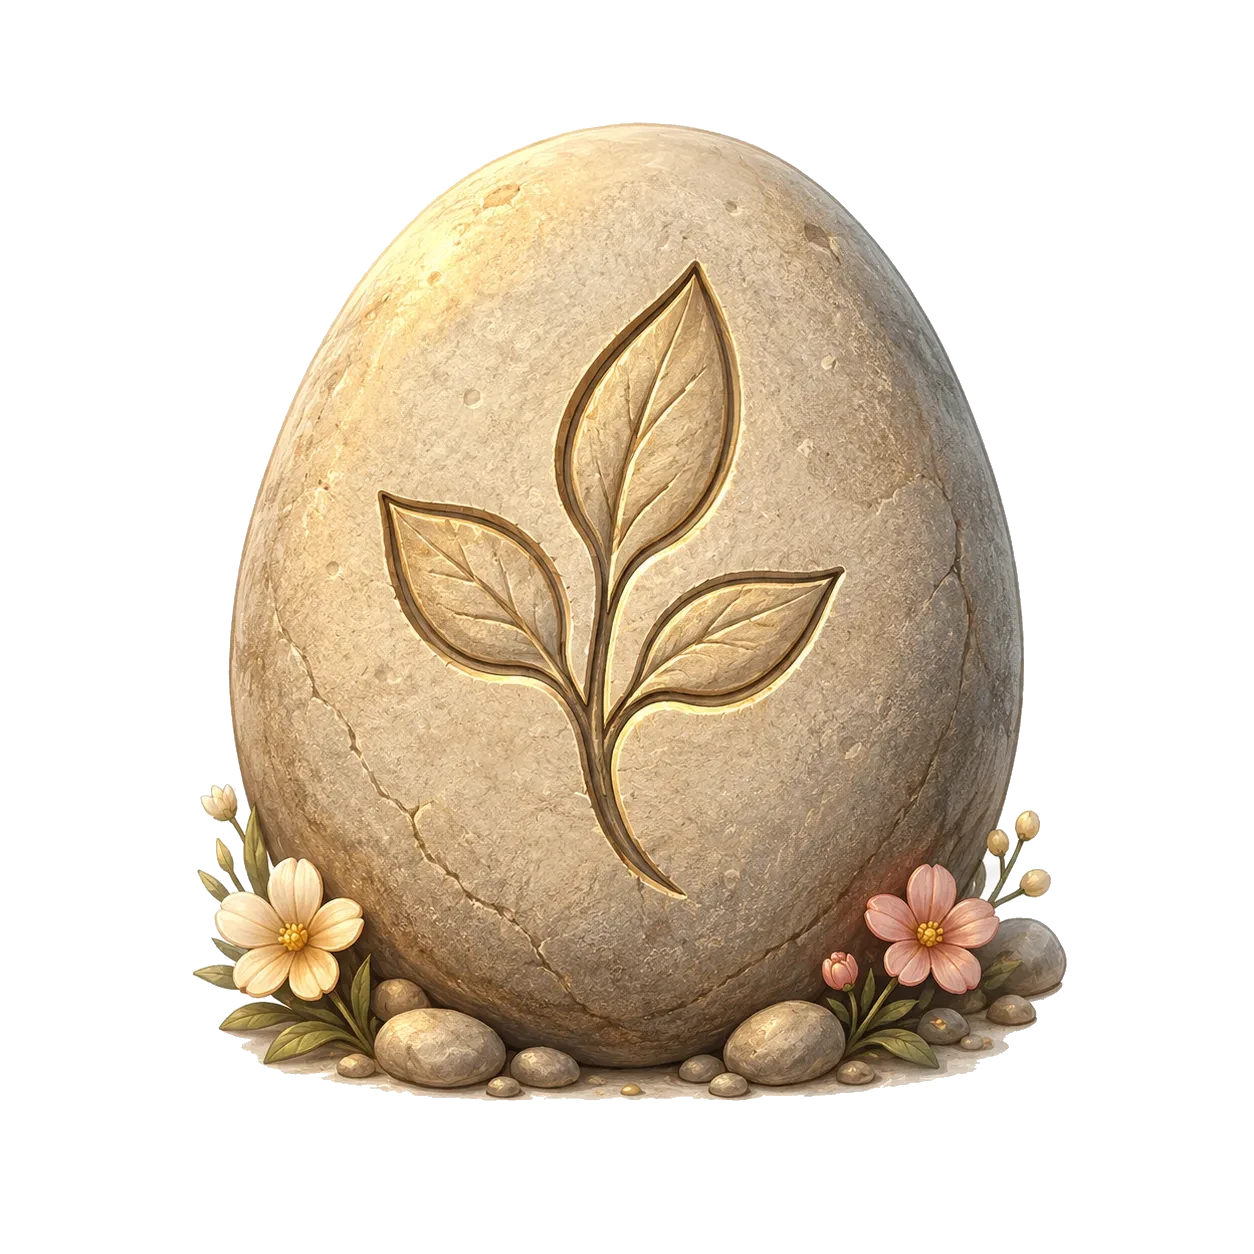
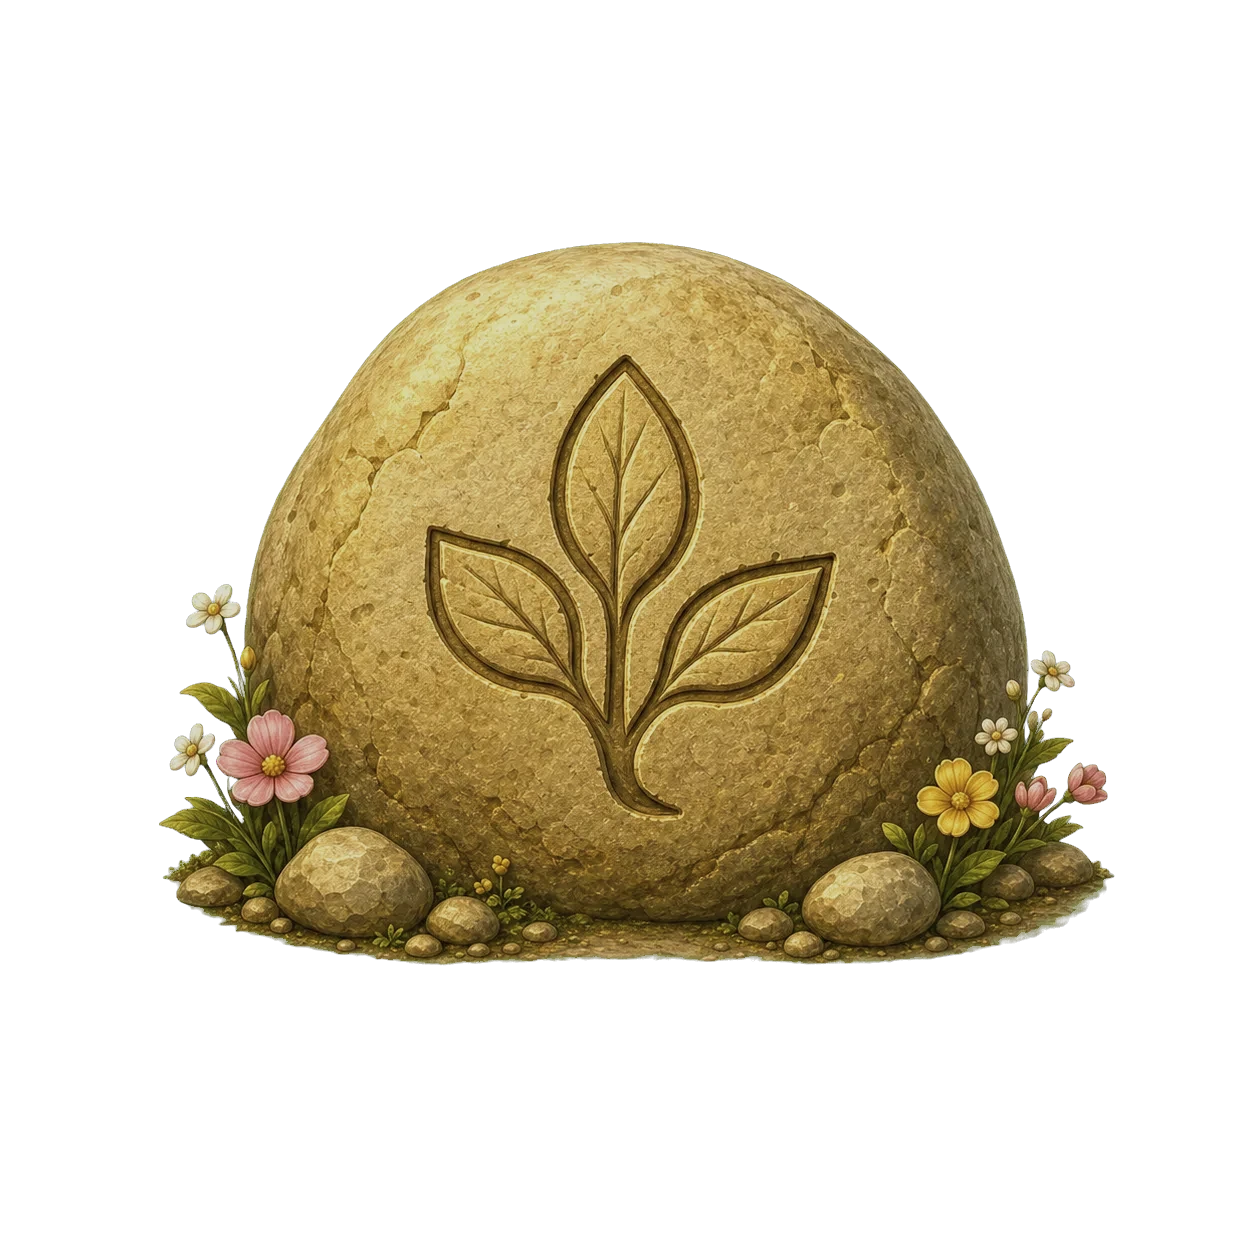
fix: refine discovery bridge stone selection

diff --git a/legacy/koppel-frontend/brug_ontdekking.html b/legacy/koppel-frontend/brug_ontdekking.html
@@ -44,32 +44,57 @@ h2{font-size:1.1rem;font-weight:700;color:#f0e8d0;text-align:center;}
 @keyframes bop{0%,80%,100%{transform:translateY(0)}40%{transform:translateY(-7px)}}
 
 /* stones */
+.choose-head{width:100%;max-width:440px;padding:40px 16px 7px;text-align:center;}
+.choose-head h1{font-size:1.32rem;}
+.choose-intro{max-width:390px;margin:5px auto 0;font-size:.86rem;color:#e7dfc9;line-height:1.45;}
+.selection-tray{width:calc(100% - 24px);max-width:410px;display:flex;align-items:center;justify-content:space-between;
+  gap:12px;padding:8px 10px;margin-bottom:4px;border:1px solid rgba(232,192,96,.25);border-radius:16px;
+  background:rgba(10,20,8,.82);box-shadow:0 8px 22px rgba(0,0,0,.2);backdrop-filter:blur(8px);}
+.selection-copy{min-width:84px;}
+.selection-title{font-size:.66rem;color:#a9b996;text-transform:uppercase;letter-spacing:.08em;}
+.selection-count{font-size:.88rem;color:#e8c060;font-weight:800;margin-top:2px;}
 .stones-wrap{flex:1;overflow-y:auto;display:flex;flex-direction:column;align-items:center;
-  padding:6px 10px 0;min-height:0;width:100%;}
-.stones-grid{display:grid;grid-template-columns:repeat(3,1fr);gap:8px;width:100%;max-width:420px;}
+  padding:4px 10px 96px;min-height:0;width:100%;}
+.stones-grid{display:grid;grid-template-columns:repeat(3,1fr);gap:10px 8px;width:100%;max-width:420px;}
 .stone-item{display:flex;flex-direction:column;align-items:center;gap:3px;cursor:pointer;
-  padding:6px 4px 8px;border-radius:14px;transition:all .18s;border:2px solid transparent;
+  min-height:126px;padding:6px 4px 9px;border-radius:14px;transition:all .18s;border:2px solid transparent;
   position:relative;user-select:none;}
 .stone-item:active{transform:scale(.92);}
 .stone-item.selected{border-color:#e8c060;background:rgba(232,192,96,.13);
   box-shadow:0 0 14px rgba(232,192,96,.3);}
-.stone-item img{width:100%;max-width:95px;aspect-ratio:1;object-fit:contain;
+.stone-item img{width:100%;max-width:102px;height:96px;object-fit:contain;
   filter:drop-shadow(0 3px 7px rgba(0,0,0,.55));}
 .stone-item.selected img{filter:drop-shadow(0 0 10px rgba(232,192,96,.65)) drop-shadow(0 3px 7px rgba(0,0,0,.55));}
-.stone-label{font-size:.75rem;font-weight:700;color:#b8a870;text-align:center;line-height:1.25;max-width:88px;
-  margin-top:-4px;} /* iets groter + hoger */
-.stone-item.selected .stone-label{color:#e8c060;}
+.stone-label{font-size:.88rem;font-weight:750;color:#e0d5b5;text-align:center;line-height:1.18;max-width:112px;
+  text-shadow:0 1px 4px rgba(0,0,0,.75);}
+.stone-item.selected .stone-label{color:#f4cd68;}
 .stone-check{position:absolute;top:3px;right:3px;width:17px;height:17px;border-radius:50%;
   background:#e8c060;color:#1a1208;font-size:.6rem;display:none;align-items:center;justify-content:center;font-weight:800;}
 .stone-item.selected .stone-check{display:flex;}
 
-/* bottom bar */
-.bottom-bar{width:100%;max-width:420px;padding:8px 14px 18px;display:flex;flex-direction:column;gap:7px;align-items:center;}
+/* selection summary */
 .slot-row{display:flex;gap:8px;justify-content:center;}
-.slot{width:44px;height:44px;border-radius:12px;border:1.5px dashed rgba(232,192,96,.4);
+.slot{width:42px;height:42px;border-radius:11px;border:1.5px dashed rgba(232,192,96,.4);
   display:flex;align-items:center;justify-content:center;overflow:hidden;background:rgba(0,0,0,.2);}
-.slot img{width:40px;height:40px;object-fit:contain;}
+.slot img{width:39px;height:39px;object-fit:contain;}
 .slot.empty{opacity:.5;}
+.selection-tray .btn{flex:0 0 auto;padding:10px 13px;border-radius:11px;font-size:.78rem;}
+
+@media (max-width:390px){
+  .choose-head{padding-left:12px;padding-right:12px;}
+  .choose-intro{font-size:.82rem;}
+  .selection-tray{gap:8px;padding:7px 8px;}
+  .selection-copy{min-width:70px;}
+  .selection-title{font-size:.58rem;}
+  .selection-count{font-size:.78rem;}
+  .slot-row{gap:5px;}
+  .slot{width:36px;height:36px;}
+  .slot img{width:34px;height:34px;}
+  .selection-tray .btn{padding:9px 10px;font-size:.72rem;}
+  .stone-item{min-height:118px;}
+  .stone-item img{height:88px;}
+  .stone-label{font-size:.82rem;}
+}
 
 /* modal */
 .modal-ov{position:fixed;inset:0;z-index:200;background:rgba(0,0,0,0);pointer-events:none;transition:background .3s;}
@@ -195,20 +220,23 @@ h2{font-size:1.1rem;font-weight:700;color:#f0e8d0;text-align:center;}
 <div id="s-kies" class="screen">
   <div class="bg"></div>
   <div class="ov">
-    <div style="width:100%;max-width:420px;padding:42px 12px 0;text-align:center;">
-      <h1 style="font-size:1.2rem;">Kies drie stenen</h1>
-      <p class="sub" style="font-size:.72rem;margin-top:2px;">Tik een steen aan voor uitleg — dan kiezen of overslaan</p>
+    <div class="choose-head">
+      <h1>Kies drie stenen</h1>
+      <p class="choose-intro">In deze oefening mag je iets over jezelf vertellen. Kies drie onderwerpen waarover je meer zou willen vertellen.</p>
     </div>
-    <div class="stones-wrap"><div class="stones-grid" id="stones-grid"></div></div>
-    <div class="bottom-bar">
+    <div class="selection-tray">
+      <div class="selection-copy">
+        <div class="selection-title">Jouw keuze</div>
+        <div class="selection-count" id="selection-count">0 van 3</div>
+      </div>
       <div class="slot-row" id="slot-row">
         <div class="slot empty" id="sl0"></div>
         <div class="slot empty" id="sl1"></div>
         <div class="slot empty" id="sl2"></div>
       </div>
-      <button class="btn btn-gold" id="kies-btn" disabled onclick="submitKeuze()" style="width:100%;max-width:300px;">Klaar (0/3) →</button>
-      <p class="safe-note">Deel alleen wat goed voelt. Een klein verhaal is genoeg.</p>
+      <button class="btn btn-gold" id="kies-btn" disabled onclick="submitKeuze()">Klaar</button>
     </div>
+    <div class="stones-wrap"><div class="stones-grid" id="stones-grid"></div></div>
   </div>
 </div>
 
@@ -471,7 +499,8 @@ function updateSlots(){
   }
   const n=S.mijn.length;
   const btn=document.getElementById('kies-btn');
-  btn.textContent='Klaar ('+n+'/3) →';
+  document.getElementById('selection-count').textContent=n+' van 3';
+  btn.textContent=n===3?'Klaar →':'Klaar';
   btn.disabled=n<3;
 }
 